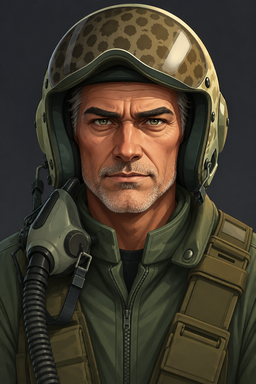
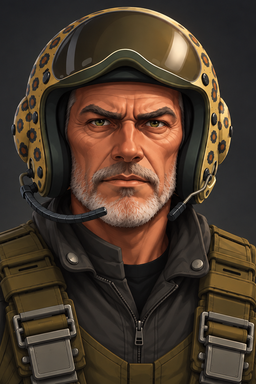
Портреты «Осы» v2: новые, более разные лица от владельца
Claude-Session: https://claude.ai/code/session_01CvCnpnAp5PqAeTuhWQ3y8p

diff --git a/game/art/LICENSES.md b/game/art/LICENSES.md
@@ -16,4 +16,4 @@
 | `pbr/rock_*` | Cliff Side (`cliff_side`) | James Ray Cock, Jenelle van Heerden, Dario Barresi | https://polyhaven.com/a/cliff_side |
 
 ## Портреты экипажа (`portraits/*.png`)
-Сгенерированы владельцем проекта в ChatGPT по промптам из `/mnt/project-files/progression/portraits_chatgpt_prompts.md` (2026-10-16). Уменьшены до 256×384. Оригиналы 1024×1536 хранятся в общей папке проекта (`progression/portraits/`).
+Сгенерированы владельцем проекта в ChatGPT по промптам из `/mnt/project-files/progression/portraits_chatgpt_prompts.md` (2026-10-16). Уменьшены до 256×384. Оригиналы (1024×1536; «Оса» v2 — 1448×1086, обрезка по центру 2:3) хранятся в общей папке проекта (`progression/portraits/`).
